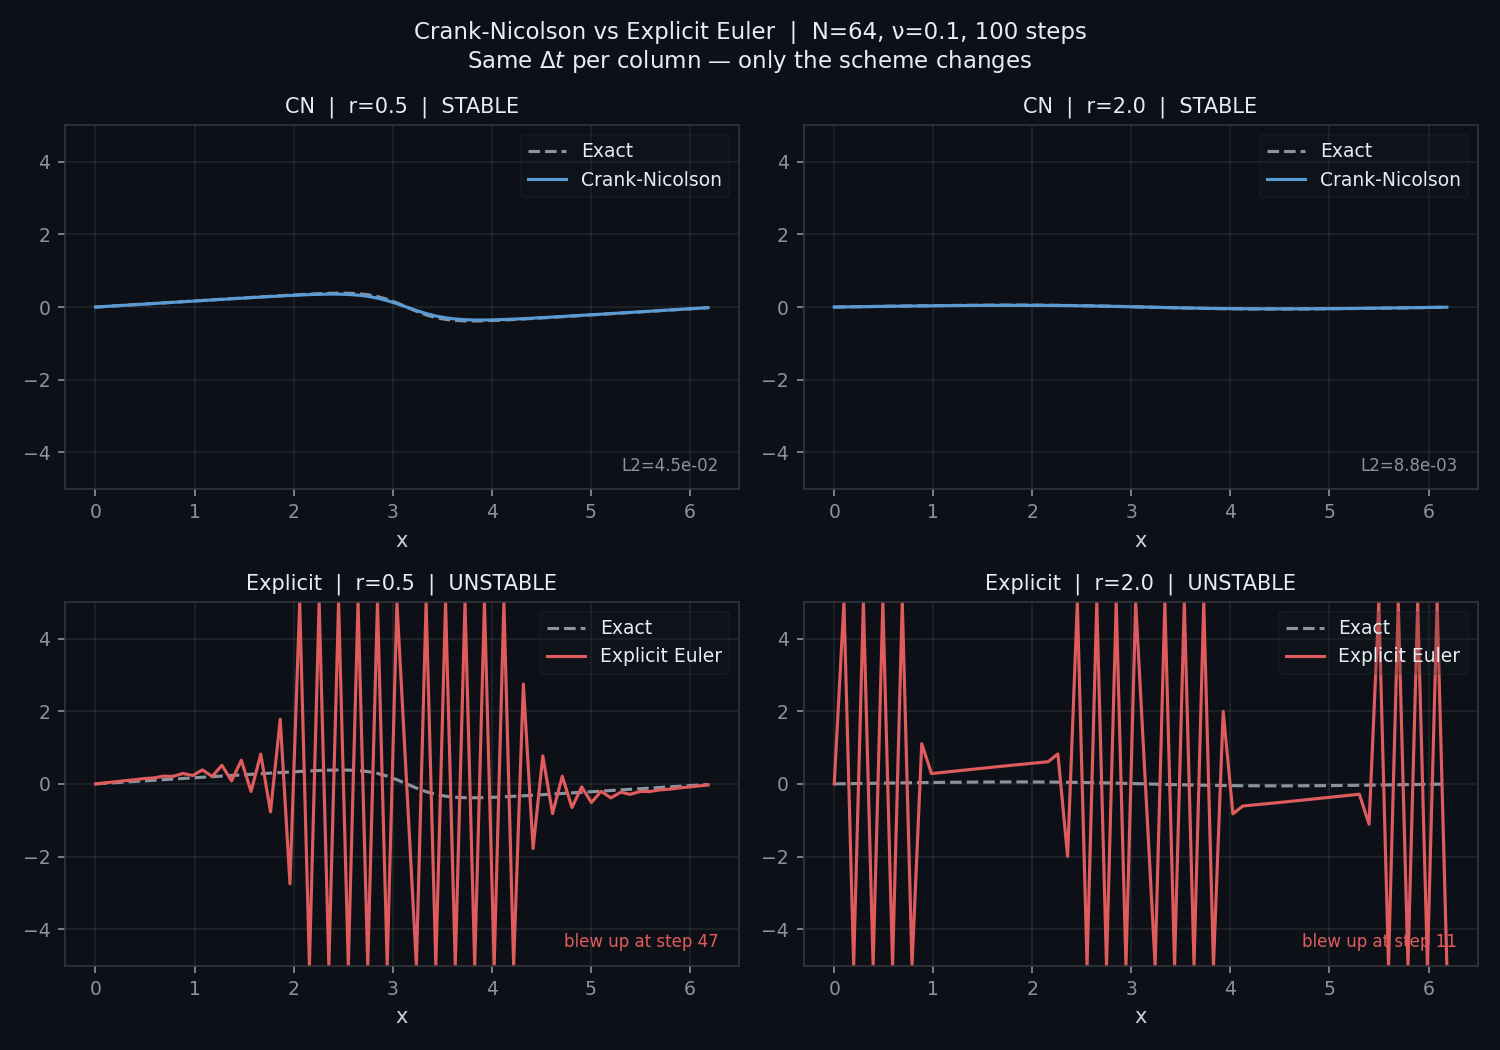
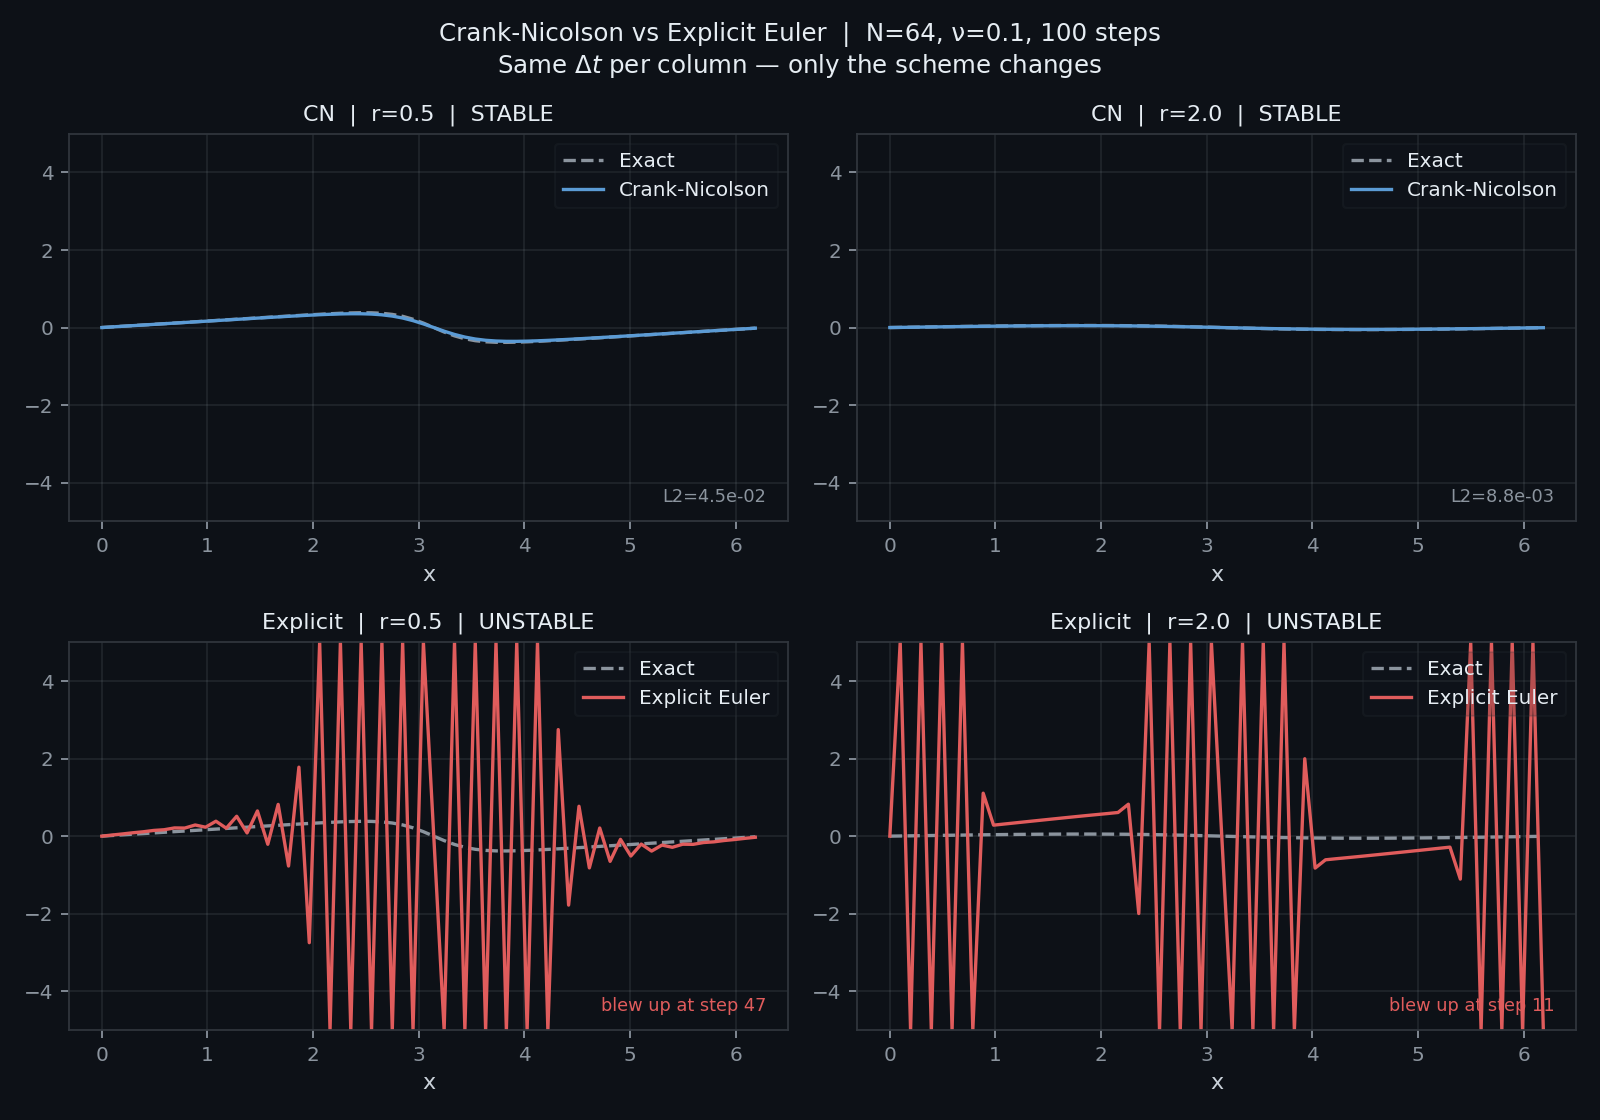
style: unify all README dark figures into one script
- make_readme_dark_figures.py: now generates all 4 dark figures (was 2)
- Delete make_readme_banner.py: absorbed into unified script
- Add readme_formulation_l2diff_dark.png
- README.md: all 4 figure links point to dark versions

diff --git a/analysis/make_readme_dark_figures.py b/analysis/make_readme_dark_figures.py
@@ -1,13 +1,19 @@
 """
 analysis/make_readme_dark_figures.py
 =====================================
-Generates dark-background (GitHub-dark compatible) versions of two README
-figures.  The original light-background figures are kept unchanged.
+Single source of truth for every dark-themed figure that appears in the
+README.  All four outputs share the same GitHub-dark palette so the README
+looks uniform on dark mode.
 
-Outputs
--------
-  figures/readme_cfl_dark.png            dark version of cfl_blowup.png
-  figures/readme_shock_zoom_dark.png     dark version of shock_zoom.png
+Outputs (all saved to figures/)
+--------------------------------
+  readme_convergence_banner.png   convergence L² error vs N  (Fig 1)
+  readme_cfl_dark.png             CN vs Explicit Euler       (Fig 2)
+  readme_shock_zoom_dark.png      shock-layer zoom           (Fig 3)
+  readme_formulation_l2diff_dark.png  formulation divergence (Fig 4)
+
+Originals produced by the analysis scripts (white background) are kept
+unchanged; only the README links point to the dark versions.
 
 Run from project root:
   python analysis/make_readme_dark_figures.py
@@ -20,7 +26,9 @@ ROOT = Path(__file__).resolve().parent.parent
 sys.path.insert(0, str(ROOT))
 
 import numpy as np
+import pandas as pd
 import matplotlib.pyplot as plt
+import matplotlib.patches as mpatches
 from scipy.sparse.linalg import spsolve
 
 from solvers.exact    import u_exact
@@ -29,25 +37,27 @@ from solvers.fem      import solve_fem
 from solvers.spectral import solve_spectral
 
 # ---------------------------------------------------------------------------
-# GitHub-dark palette (matches readme_convergence_banner.png)
+# GitHub-dark palette
 # ---------------------------------------------------------------------------
-BG      = '#0d1117'
-SPINE   = '#30363d'
-TICK    = '#8b949e'
-LABEL   = '#c9d1d9'
-TITLE   = '#e6edf3'
-LEG_BG  = '#161b22'
-GRID_C  = '#8b949e'
+BG     = '#0d1117'
+SPINE  = '#30363d'
+TICK   = '#8b949e'
+LABEL  = '#c9d1d9'
+TITLE  = '#e6edf3'
+LEG_BG = '#161b22'
+GRID_C = '#8b949e'
 
-C_FDM   = '#e05c5c'   # red
-C_FEM   = '#5b9bd5'   # blue
-C_SPEC  = '#4dbb6e'   # green
-C_CN    = '#5b9bd5'
-C_EULER = '#e05c5c'
-C_EXACT = '#8b949e'   # muted grey
+COLORS = {
+    'FDM':      '#e05c5c',
+    'FEM':      '#5b9bd5',
+    'Spectral': '#4dbb6e',
+    'CN':       '#5b9bd5',
+    'Euler':    '#e05c5c',
+    'Exact':    '#8b949e',
+}
 
 
-def apply_dark(ax):
+def apply_dark(ax, axis='both'):
     """Apply GitHub-dark styling to an Axes instance."""
     ax.set_facecolor(BG)
     ax.tick_params(colors=TICK, labelsize=9)
@@ -56,21 +66,84 @@ def apply_dark(ax):
     ax.xaxis.label.set_color(LABEL)
     ax.yaxis.label.set_color(LABEL)
     ax.title.set_color(TITLE)
-    ax.grid(alpha=0.15, color=GRID_C, which='both')
+    ax.grid(alpha=0.15, color=GRID_C, axis=axis)
 
 
 def dark_legend(ax, **kwargs):
-    """Attach a legend styled for the dark theme."""
+    """Attach a dark-themed legend to an Axes."""
     return ax.legend(
         fontsize=9, framealpha=0.2, labelcolor=TITLE,
         facecolor=LEG_BG, edgecolor=SPINE, **kwargs
     )
 
 
+def new_dark_fig(*args, **kwargs):
+    """Create a Figure with the dark background already set."""
+    fig = plt.figure(*args, **kwargs)
+    fig.patch.set_facecolor(BG)
+    return fig
+
+
+def save(fig, name):
+    out = ROOT / 'figures' / name
+    fig.savefig(out, dpi=160, facecolor=fig.get_facecolor())
+    print(f"  Saved figures/{name}")
+    plt.close(fig)
+
+
 # ===========================================================================
-# Figure 1 — CFL / stability (dark)
+# Figure 1 — Convergence banner
 # ===========================================================================
-print("Generating readme_cfl_dark.png …")
+print("[ 1/4 ] readme_convergence_banner.png")
+
+csv_path = ROOT / 'results' / 'convergence.csv'
+df = pd.read_csv(csv_path)
+
+fig = new_dark_fig(figsize=(9, 4.5))
+ax  = fig.add_subplot(111)
+ax.set_facecolor(BG)
+
+for method, marker in [('FDM', 'o'), ('FEM', 's'), ('Spectral', 'D')]:
+    sub = df[df['method'] == method]
+    ax.semilogy(sub['N'], sub['error'], f'{marker}-',
+                color=COLORS[method], lw=2.2, ms=7, label=method, zorder=3)
+
+# Annotations
+ax.annotate('slope $-1$  (1st order)',
+            xy=(df[df['method'] == 'FDM']['N'].values[4],
+                df[df['method'] == 'FDM']['error'].values[4]),
+            xytext=(620, 10e-6), color=COLORS['FDM'], fontsize=9,
+            arrowprops=dict(arrowstyle='->', color=COLORS['FDM'], lw=1.2))
+ax.annotate('slope $-2$  (2nd order)',
+            xy=(df[df['method'] == 'FEM']['N'].values[4],
+                df[df['method'] == 'FEM']['error'].values[4]),
+            xytext=(500, 10e-9), color=COLORS['FEM'], fontsize=9,
+            arrowprops=dict(arrowstyle='->', color=COLORS['FEM'], lw=1.2))
+ax.annotate('exponential decay\n(spectral)',
+            xy=(df[df['method'] == 'Spectral']['N'].values[2],
+                df[df['method'] == 'Spectral']['error'].values[2]),
+            xytext=(350, 10e-11), color=COLORS['Spectral'], fontsize=9,
+            arrowprops=dict(arrowstyle='->', color=COLORS['Spectral'], lw=1.2))
+
+ax.axhline(1e-14, color='gray', lw=0.8, ls=':', alpha=0.6)
+ax.text(18, 3e-14, 'machine precision', color='gray', fontsize=8, alpha=0.8)
+
+ax.set_xlabel('Grid points $N$', fontsize=11)
+ax.set_ylabel('$L^2$ error', fontsize=11)
+ax.set_title('Convergence: $L^2$ error vs grid size', fontsize=13, pad=12)
+ax.set_xlim(12, 1400)
+apply_dark(ax)
+ax.legend(fontsize=10, framealpha=0.15, labelcolor=TITLE,
+          facecolor=LEG_BG, edgecolor=SPINE, loc='upper right')
+
+plt.tight_layout(pad=1.2)
+save(fig, 'readme_convergence_banner.png')
+
+
+# ===========================================================================
+# Figure 2 — CFL / stability
+# ===========================================================================
+print("[ 2/4 ] readme_cfl_dark.png")
 
 N_CFL  = 64
 NU_CFL = 0.1
@@ -83,7 +156,7 @@ dx_cfl = 2 * np.pi / N_CFL
 u0_cfl = np.sin(x_cfl)
 
 
-def _diffusion_explicit(U, dx, nu):
+def _diff_explicit(U, dx, nu):
     return nu * (np.roll(U, -1) - 2 * U + np.roll(U, 1)) / dx**2
 
 
@@ -101,7 +174,8 @@ def _run_cn(u0, dt):
 def _run_explicit(u0, dt):
     U = u0.copy()
     for step in range(NSTEPS):
-        U = U - dt * upwind_advection(U, dx_cfl) + dt * _diffusion_explicit(U, dx_cfl, NU_CFL)
+        U = (U - dt * upwind_advection(U, dx_cfl)
+               + dt * _diff_explicit(U, dx_cfl, NU_CFL))
         if np.max(np.abs(U)) > 1e4:
             return U, True, step + 1
     return U, False, NSTEPS
@@ -115,11 +189,11 @@ for col, r in enumerate(R_LIST):
     T    = NSTEPS * dt
     u_ex = u_exact(x_cfl, T, NU_CFL)
 
-    # Top row — Crank-Nicolson
+    # Top — Crank-Nicolson
     ax = axes[0][col]
     U, _ = _run_cn(u0_cfl, dt)
-    ax.plot(x_cfl, u_ex, '--', color=C_EXACT, lw=1.5, label='Exact')
-    ax.plot(x_cfl, np.clip(U, *YLIM), color=C_CN, lw=1.5, label='Crank-Nicolson')
+    ax.plot(x_cfl, u_ex,               '--', color=COLORS['Exact'], lw=1.5, label='Exact')
+    ax.plot(x_cfl, np.clip(U, *YLIM),  '-',  color=COLORS['CN'],    lw=1.5, label='Crank-Nicolson')
     ax.set_title(f'CN  |  r={r}  |  STABLE', fontsize=10)
     ax.set_ylim(YLIM)
     err = np.sqrt(dx_cfl * np.sum((U - u_ex)**2))
@@ -128,11 +202,11 @@ for col, r in enumerate(R_LIST):
     apply_dark(ax)
     dark_legend(ax)
 
-    # Bottom row — Explicit Euler
+    # Bottom — Explicit Euler
     ax = axes[1][col]
     U, blowup, blow_step = _run_explicit(u0_cfl, dt)
-    ax.plot(x_cfl, u_ex, '--', color=C_EXACT, lw=1.5, label='Exact')
-    ax.plot(x_cfl, np.clip(U, *YLIM), color=C_EULER, lw=1.5, label='Explicit Euler')
+    ax.plot(x_cfl, u_ex,               '--', color=COLORS['Exact'], lw=1.5, label='Exact')
+    ax.plot(x_cfl, np.clip(U, *YLIM),  '-',  color=COLORS['Euler'], lw=1.5, label='Explicit Euler')
     status = 'UNSTABLE' if blowup else 'STABLE'
     ax.set_title(f'Explicit  |  r={r}  |  {status}', fontsize=10)
     ax.set_ylim(YLIM)
@@ -140,7 +214,7 @@ for col, r in enumerate(R_LIST):
     dark_legend(ax)
     if blowup:
         ax.text(0.97, 0.05, f'blew up at step {blow_step}',
-                transform=ax.transAxes, fontsize=8, ha='right', color=C_EULER)
+                transform=ax.transAxes, fontsize=8, ha='right', color=COLORS['Euler'])
     else:
         err = np.sqrt(dx_cfl * np.sum((U - u_ex)**2))
         ax.text(0.97, 0.05, f'L2={err:.1e}', transform=ax.transAxes,
@@ -155,16 +229,13 @@ fig.suptitle(
     fontsize=11, color=TITLE
 )
 plt.tight_layout()
-out = ROOT / 'figures' / 'readme_cfl_dark.png'
-plt.savefig(out, dpi=150, facecolor=fig.get_facecolor())
-print(f"  Saved {out.relative_to(ROOT)}")
-plt.close()
+save(fig, 'readme_cfl_dark.png')
 
 
 # ===========================================================================
-# Figure 2 — Shock layer zoom (dark)
+# Figure 3 — Shock layer zoom
 # ===========================================================================
-print("Generating readme_shock_zoom_dark.png …")
+print("[ 3/4 ] readme_shock_zoom_dark.png")
 
 N_S   = 256
 T_S   = 1.0
@@ -185,25 +256,61 @@ u_spec, _ = solve_spectral(u0_s, N_S, T_S, NU_S, cfl=CFL_S)
 fig, ax = plt.subplots(figsize=(8, 5))
 fig.patch.set_facecolor(BG)
 
-ax.plot(x_s[mask], u_fdm[mask],  '-', color=C_FDM,  lw=2.2, label='FDM')
-ax.plot(x_s[mask], u_fem[mask],  '-', color=C_FEM,  lw=2.2, label='FEM')
-ax.plot(x_s[mask], u_spec[mask], '-', color=C_SPEC, lw=2.2, label='Spectral')
+ax.plot(x_s[mask], u_fdm[mask],  '-', color=COLORS['FDM'],  lw=2.2, label='FDM')
+ax.plot(x_s[mask], u_fem[mask],  '-', color=COLORS['FEM'],  lw=2.2, label='FEM')
+ax.plot(x_s[mask], u_spec[mask], '-', color=COLORS['Spectral'], lw=2.2, label='Spectral')
 ax.axvline(np.pi, color=TICK, lw=0.9, linestyle=':', alpha=0.6,
            label=r'Shock centre $x=\pi$')
 
 ax.set_xlabel('x', fontsize=12)
 ax.set_ylabel('u(x, T)', fontsize=12)
-ax.set_title(
-    rf'Shock layer zoom  |  $\nu$={NU_S}, N={N_S}, T={T_S}',
-    fontsize=12
-)
+ax.set_title(rf'Shock layer zoom  |  $\nu$={NU_S}, N={N_S}, T={T_S}', fontsize=12)
 apply_dark(ax)
 dark_legend(ax)
 plt.tight_layout()
+save(fig, 'readme_shock_zoom_dark.png')
 
-out = ROOT / 'figures' / 'readme_shock_zoom_dark.png'
-plt.savefig(out, dpi=150, facecolor=fig.get_facecolor())
-print(f"  Saved {out.relative_to(ROOT)}")
-plt.close()
 
-print("\nDone. README already updated to reference the dark figures.")
+# ===========================================================================
+# Figure 4 — Formulation L² divergence
+# ===========================================================================
+print("[ 4/4 ] readme_formulation_l2diff_dark.png")
+
+NU_VALUES = [0.05, 0.02, 0.01, 0.005]
+dx_f = 2 * np.pi / N_S
+x_f  = np.linspace(0, 2 * np.pi, N_S, endpoint=False)
+u0_f = np.sin(x_f)
+
+l2_diffs = []
+for nu in NU_VALUES:
+    print(f"  nu={nu} …")
+    u_adv, _ = solve_fdm(u0_f, N_S, T_S, nu, cfl=CFL_S, formulation='advective')
+    u_con, _ = solve_fdm(u0_f, N_S, T_S, nu, cfl=CFL_S, formulation='conservative')
+    l2_diffs.append(np.sqrt(dx_f * np.sum((u_adv - u_con)**2)))
+
+# Blue gradient matching the project palette
+BAR_COLORS = ['#c9d9e8', '#7fb3d3', '#2e7bbf', '#1a4d80']
+
+fig, ax = plt.subplots(figsize=(7, 5))
+fig.patch.set_facecolor(BG)
+
+bars = ax.bar([str(nu) for nu in NU_VALUES], l2_diffs,
+              color=BAR_COLORS, edgecolor=SPINE, linewidth=0.8)
+
+for bar, val in zip(bars, l2_diffs):
+    ax.text(bar.get_x() + bar.get_width() / 2,
+            bar.get_height() + max(l2_diffs) * 0.015,
+            f'{val:.2e}', ha='center', va='bottom', fontsize=9, color=LABEL)
+
+ax.set_xlabel('Viscosity $\\nu$', fontsize=12)
+ax.set_ylabel('$\\|u_{adv} - u_{con}\\|_2$', fontsize=12)
+ax.set_title(
+    f'Formulation divergence vs viscosity  |  N={N_S}, T={T_S}\n'
+    'Difference grows as $\\nu \\to 0$: formulation matters near shocks',
+    fontsize=11
+)
+apply_dark(ax, axis='y')
+plt.tight_layout()
+save(fig, 'readme_formulation_l2diff_dark.png')
+
+print("\nAll four README dark figures generated successfully.")

diff --git a/README.md b/README.md
@@ -80,7 +80,7 @@ The parameter $\nu > 0$ is the kinematic viscosity. For large $\nu$ the solution
 
 **Conservative vs advective formulation.** The viscous Burgers equation can be written as $u_t + u\,u_x = \nu\,u_{xx}$ (advective) or equivalently as $u_t + \partial(u^2/2)/\partial x = \nu\,u_{xx}$ (conservative). For sufficiently smooth solutions the two formulations lead to equivalent truncation errors under standard discretisations. In the near-shock regime, however, the conservative form more faithfully preserves the conservation structure governing shock propagation, while the advective form resolves the shock layer differently, producing a different profile shape and smearing width; for the symmetric $\sin(x)$ initial condition both formulations place the shock at the same position ($s=0$ by symmetry), but the profile diverges as $\nu \to 0$.
 
-![Formulation L2 difference](figures/formulation_l2diff.png)
+![Formulation L2 difference](figures/readme_formulation_l2diff_dark.png)
 
 > **Reading the figure.** Each bar is the $L^2$ norm of $(u_\text{advective} - u_\text{conservative})$ at $T=1$ for a fixed viscosity. The difference is negligible at $\nu=0.05$ (smooth solution) and grows by roughly an order of magnitude at $\nu=0.005$ (near-shock). This is the canonical argument for why conservation-law solvers are preferred in shock-dominated flows.
 
